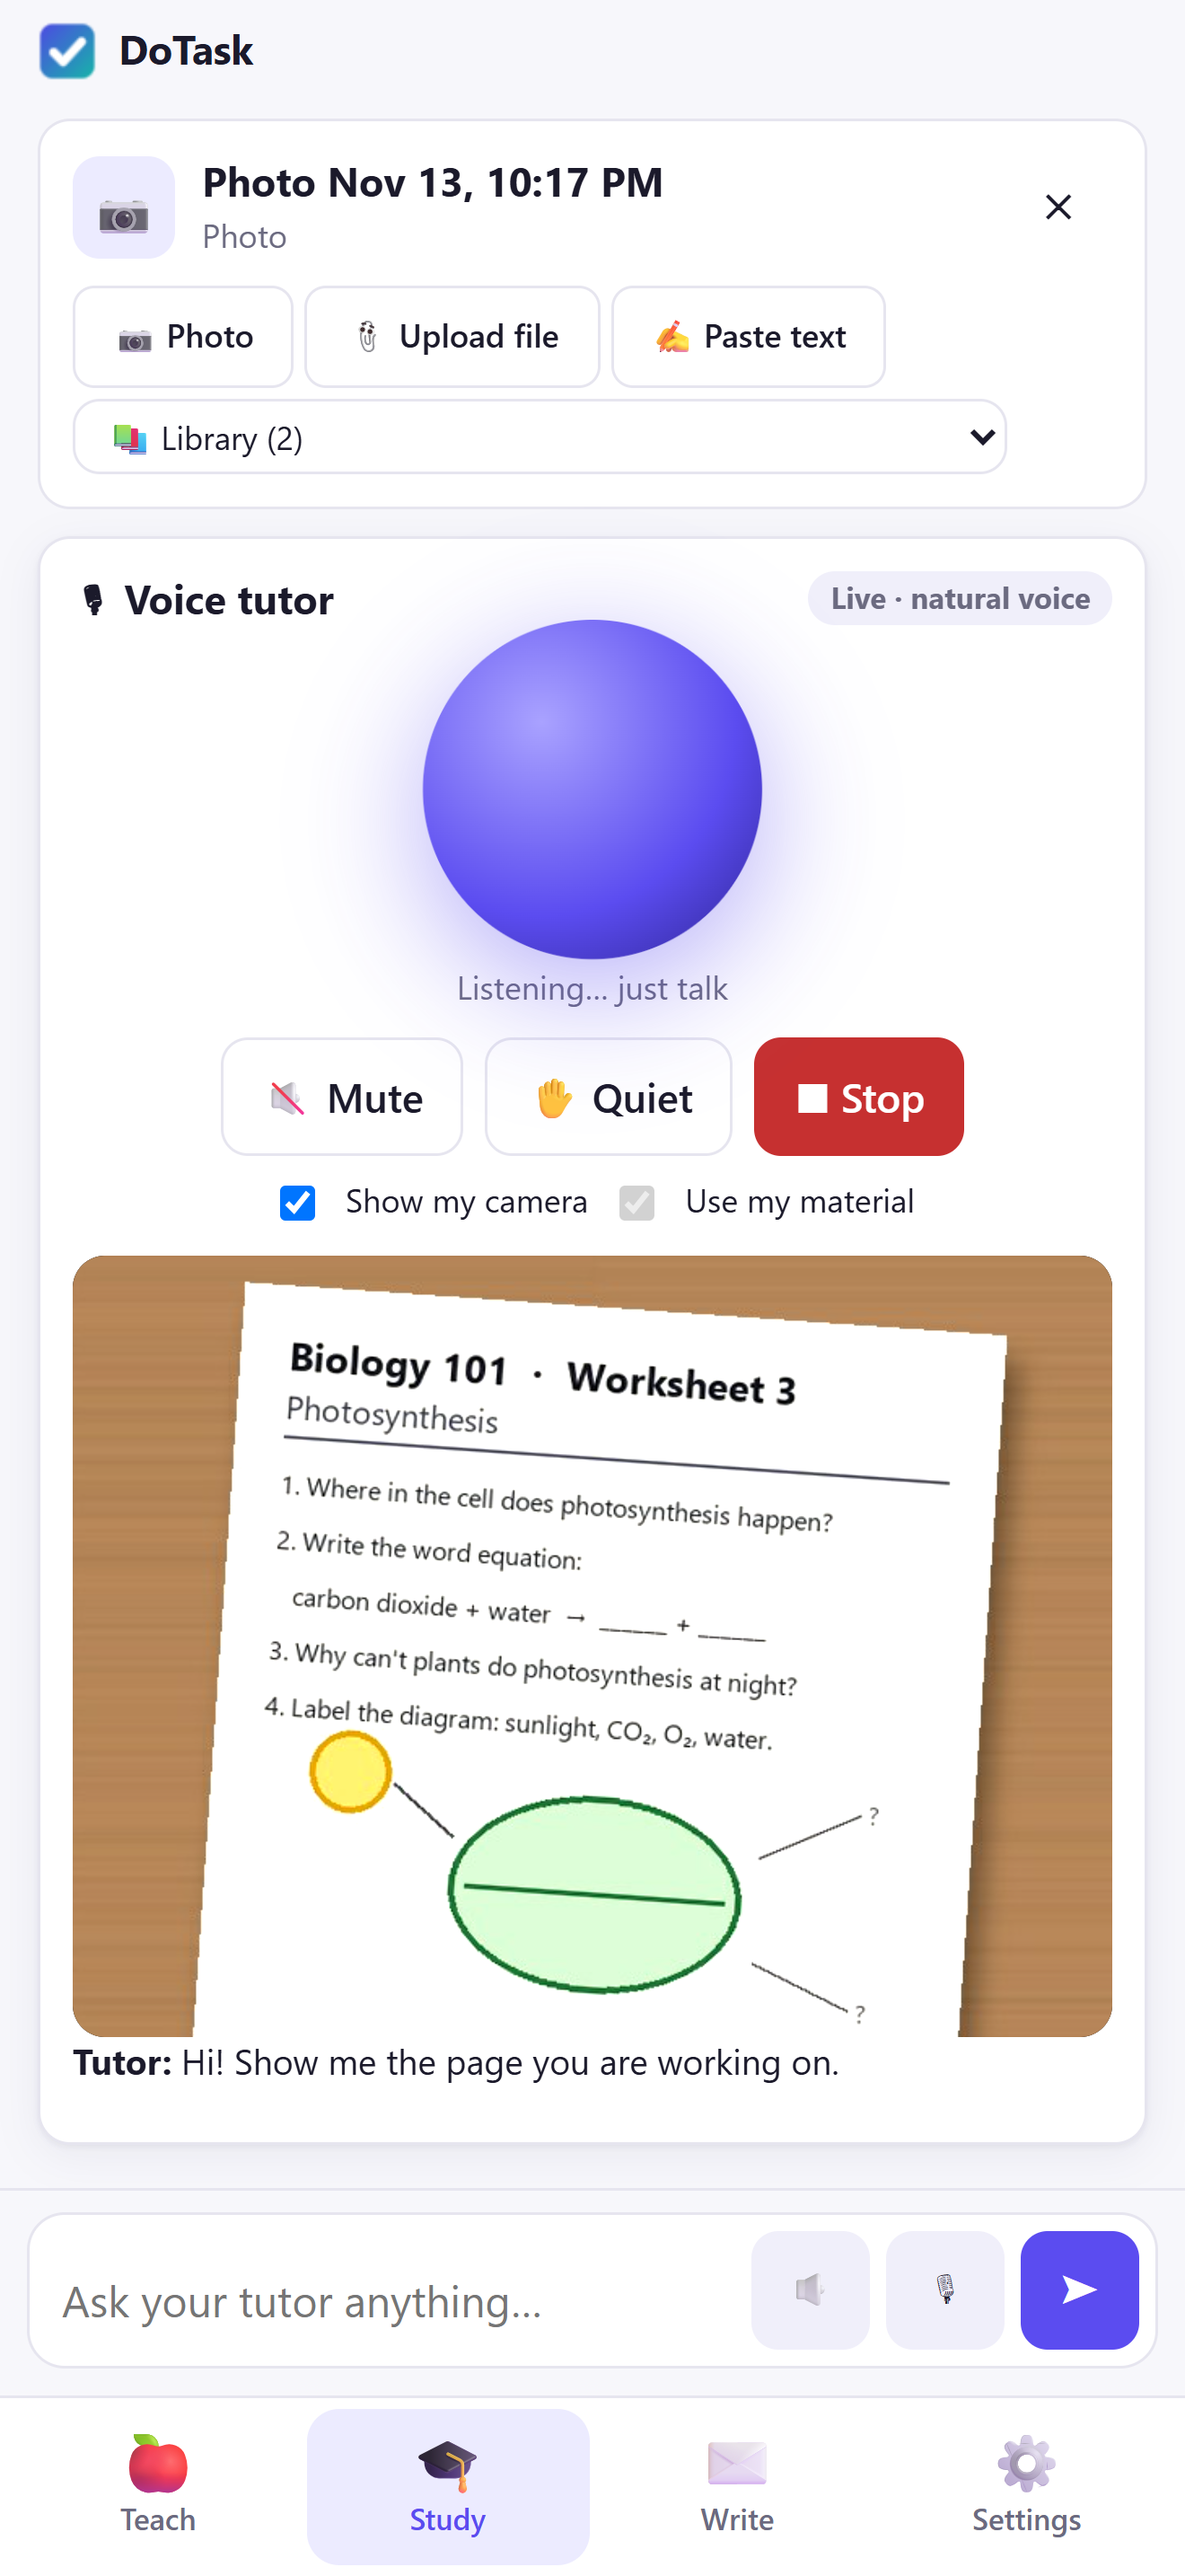
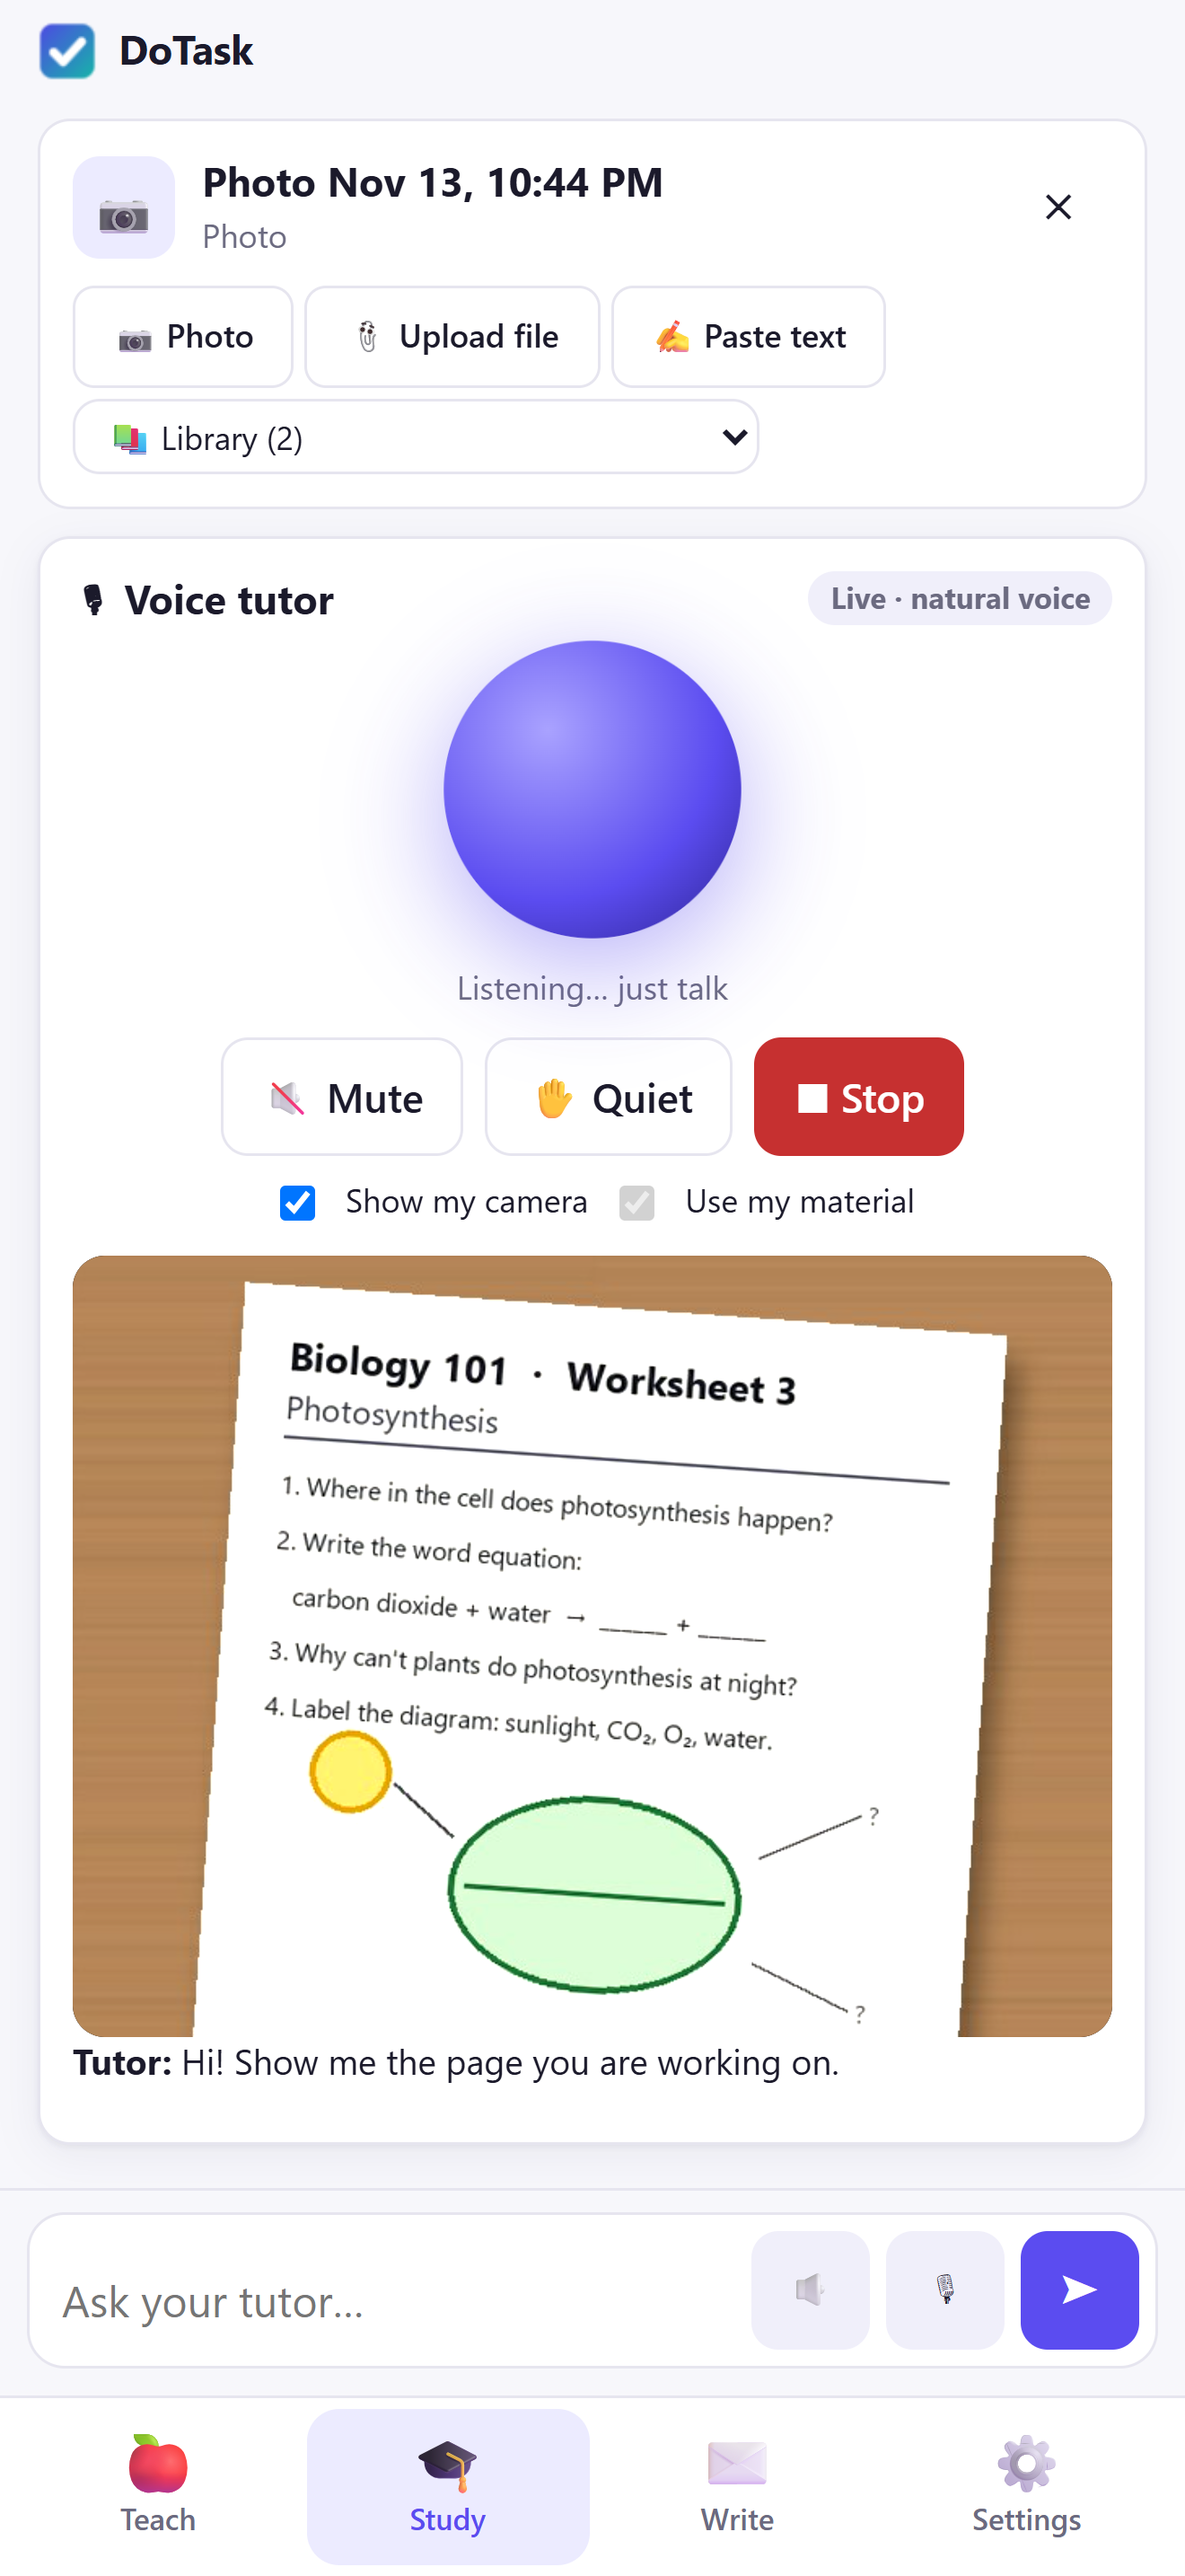
Reply drafts greet the student by name; tidier titles on small phones
- Comment replies: the AI writes {{NAME}} and the app fills in the
  student's first name on the device, so names still never reach the AI.
  Leftover "[Student Name]" placeholders are filled the same way. The real
  Gemini check caught a draft starting "Hi [Student Name],".
- shorten() for on-screen text (whole words, plain "…"); truncate() keeps
  its "[N more chars]" marker for AI prompts only. Pasted-text titles no
  longer show that marker.
- Phones: shorter composer hint so it does not wrap at 360 px.
- Store screenshots retaken.

diff --git a/extension/views/study.js b/extension/views/study.js
@@ -7,7 +7,7 @@ import { SentenceSpeaker, speak, stopSpeaking, BasicVoice, speechRecognitionAvai
 import { fileToAiPart } from '../lib/files.js'
 import * as tabs from '../lib/tabs.js'
 import { h, md, composer, toast, spinner, replace, promptDialog, openMicPermission, select } from '../lib/ui.js'
-import { truncate, isAbort, fmtDate, sleep, fnv1a } from '../lib/util.js'
+import { truncate, shorten, isAbort, fmtDate, sleep, fnv1a } from '../lib/util.js'
 import { getFolders, addFolder, unlockFolders, listFiles, readFile, filesSupported } from '../lib/localfiles.js'
 import { platform } from '../lib/platform.js'
 
@@ -34,7 +34,7 @@ export function mount(root, ctx) {
   const setupHolder = h('div')
   const scroller = h('div', { class: 'scroll' }, setupHolder, sourceBox, h('div', { style: { height: '10px' } }), voiceBox, h('div', { class: 'section-title' }, 'Study modes'), modes, log)
   const speakToggle = h('button', { class: 'icon-btn', title: 'Speak answers aloud', onclick: () => { st.speakAnswers = !st.speakAnswers; speakToggle.classList.toggle('primary', st.speakAnswers); if (!st.speakAnswers) stopSpeaking() } }, '🔈')
-  const box = composer({ placeholder: 'Ask your tutor anything…', onSubmit: (t) => ask(t), extra: [speakToggle] })
+  const box = composer({ placeholder: platform.phone ? 'Ask your tutor…' : 'Ask your tutor anything…', onSubmit: (t) => ask(t), extra: [speakToggle] })
   root.append(scroller, h('div', { class: 'composer-wrap' }, box.el))
   const fileInput = h('input', { type: 'file', class: 'hidden', accept: '.pdf,.docx,.pptx,.xlsx,.txt,.md,.csv,.html,.htm,image/*' })
   fileInput.addEventListener('change', () => { if (fileInput.files[0]) useFile(fileInput.files[0]); fileInput.value = '' })
@@ -76,7 +76,7 @@ export function mount(root, ctx) {
     st.doc = doc
     st.history = []
     renderSource()
-    note(`📚 Now studying **${doc.name}**. Pick a study mode or ask me anything.`)
+    note(`📚 Now studying **${shorten(doc.name, 80)}** — pick a study mode or ask me anything.`)
   }
 
   async function usePage() {
@@ -121,7 +121,7 @@ export function mount(root, ctx) {
     renderSource()
     note(same
       ? `I pressed **${r.label}**, but the page looks the same. It may need you to finish something on it first.`
-      : `➡ Pressed **${r.label}**. Now studying **${truncate(doc.name, 80)}**. Pick a study mode or ask me anything.`)
+      : `➡ Pressed **${r.label}**. Now studying **${shorten(doc.name, 80)}** — pick a study mode or ask me anything.`)
     return { moved: !same, pressed: r.label, title: doc.name, text: truncate(page.text || '', 6000) }
   }
 
@@ -182,7 +182,7 @@ export function mount(root, ctx) {
 
   async function usePaste() {
     const text = await promptDialog({ title: 'Paste what you want to study', placeholder: 'Notes, a chapter, an article…', multiline: true, ok: 'Study this' })
-    if (text && text.trim()) setDoc(await saveDoc({ name: truncate(text.trim().split('\n')[0], 50) || 'Pasted text', kind: 'text', text }))
+    if (text && text.trim()) setDoc(await saveDoc({ name: shorten(text.trim().split('\n')[0], 40) || 'Pasted text', kind: 'text', text }))
   }
 
   // ---------------- chat ----------------
@@ -440,7 +440,7 @@ export function mount(root, ctx) {
     onShow: async (p) => {
       replace(setupHolder, ctx.setupCard() || '')
       if (p?.usePage && platform.pages) usePage()
-      if (p?.explain) { setDoc(await saveDoc({ name: truncate(p.explain, 50), kind: 'text', text: p.explain })); ask('Explain this to me clearly, with an example.', 'Explain this') }
+      if (p?.explain) { setDoc(await saveDoc({ name: shorten(p.explain, 40), kind: 'text', text: p.explain })); ask('Explain this to me clearly, with an example.', 'Explain this') }
       if (p?.read) speak(p.read, { language: ctx.settings.language, rate: ctx.settings.speechRate })
     },
     onSettings: () => { replace(setupHolder, ctx.setupCard() || ''); if (!st.live && !st.basic) renderVoice() }

diff --git a/extension/views/teach.js b/extension/views/teach.js
@@ -7,7 +7,7 @@ import { db, draftsForAssignment, feedbackForStudent, getStudent, setStudentNote
 import { h, md, toast, spinner, avatar, select, empty, confirmDialog, replace, field } from '../lib/ui.js'
 import { saveSettings } from '../lib/settings.js'
 import { platform } from '../lib/platform.js'
-import { colorFor, fmtDate, htmlToText, isAbort, textToHtml, truncate, clampScore } from '../lib/util.js'
+import { colorFor, fmtDate, htmlToText, isAbort, textToHtml, truncate, shorten, clampScore } from '../lib/util.js'
 import { speak } from '../lib/speech.js'
 
 export function mount(root, ctx) {
@@ -362,7 +362,7 @@ export function mount(root, ctx) {
     const subCard = h('div', { class: 'card flat' },
       h('h4', null, 'Submission'),
       preview ? h('div', { class: 'preview' }, preview) : '',
-      sub.url ? h('p', { class: 'small' }, 'Link: ', h('a', { href: sub.url, target: '_blank' }, truncate(sub.url, 60))) : '',
+      sub.url ? h('p', { class: 'small' }, 'Link: ', h('a', { href: sub.url, target: '_blank' }, shorten(sub.url, 60))) : '',
       (sub.attachments || []).length ? h('div', { class: 'chips', style: { marginTop: '6px' } }, sub.attachments.map(f => h('a', { class: 'chip', href: f.url, target: '_blank' }, `📎 ${truncate(f.display_name, 40)}`))) : '',
       !preview && !sub.url && !(sub.attachments || []).length ? h('p', { class: 'small muted' }, sub.submission_type ? `Type: ${sub.submission_type}` : 'No submission yet.') : '',
       st.canvas.speedGraderUrl(st.course.id, a.id, sub.user_id) ? h('a', { class: 'small', href: st.canvas.speedGraderUrl(st.course.id, a.id, sub.user_id), target: '_blank' }, 'Open in SpeedGrader ↗') : '')
@@ -465,6 +465,7 @@ export function mount(root, ctx) {
         context: `Assignment: ${a.name}.${d?.comment ? `\nMy feedback on this submission: ${truncate(d.comment, 1500)}` : ''}`,
         sendLabel: `Send to ${first}`,
         intentPlaceholder: 'What do you want to tell them? (optional)',
+        recipientName: first, // filled in on the device; the AI only sees {{NAME}}
         onSend: async (text) => {
           const ok = await confirmDialog({ title: `Send this comment to ${nameOf(sub)}?`, body: truncate(text, 500), ok: `Send to ${first}` })
           if (!ok) return
@@ -659,7 +660,7 @@ export function mount(root, ctx) {
   }
 
   /** Reusable "draft with AI → edit → send" box. */
-  function replyEditor({ kind, original, context, sendLabel, onSend, intentPlaceholder }) {
+  function replyEditor({ kind, original, context, sendLabel, onSend, intentPlaceholder, recipientName }) {
     const intent = h('input', { class: 'input', placeholder: intentPlaceholder || 'What do you want to say? (optional — e.g. “yes, extend to Friday”)' })
     let tone = 'Warm'
     const out = h('textarea', { class: 'input', rows: 7, placeholder: 'Your reply…' })
@@ -674,7 +675,7 @@ export function mount(root, ctx) {
       draftBtn.disabled = true
       out.value = ''
       try {
-        await draftReply({ ai: ai(), settings: ctx.settings, kind, original, context, intent: intent.value, tone, onText: (_d, full) => { out.value = full } })
+        out.value = await draftReply({ ai: ai(), settings: ctx.settings, kind, original, context, intent: intent.value, tone, recipientName, onText: (_d, full) => { out.value = full } })
       } catch (e) { toast(e.message, 'error') }
       draftBtn.disabled = false
     } }, '✨ Draft')

diff --git a/extension/lib/compose.js b/extension/lib/compose.js
@@ -13,22 +13,36 @@ export function composeSystem(settings) {
 ${settings.teacherName ? `- If a sign-off fits, sign as "${settings.teacherName}".` : ''}`
 }
 
+// The AI writes this where the recipient's name goes; the app fills in the name on the device,
+// so a student's name never has to be sent to the AI.
+const NAME_TOKEN = '{{NAME}}'
+const NAME_PLACEHOLDER = /\[(?:the\s+)?(?:student|recipient|pupil)?(?:'s)?\s*(?:first\s+|full\s+)?name\]/gi
+
+/** Puts `name` where the draft has {{NAME}} or a "[Student Name]"-style placeholder. */
+export function fillName(text, name) {
+  if (!name) return text
+  return String(text).split(NAME_TOKEN).join(name).replace(NAME_PLACEHOLDER, name)
+}
+
 /**
  * @param {{ai, settings, kind?: string, original?: string, context?: string, intent?: string,
- *          tone?: string, language?: string, signal?: AbortSignal, onText?: Function}} o
+ *          tone?: string, language?: string, signal?: AbortSignal, onText?: Function,
+ *          recipientName?: string}} o  recipientName stays on the device (see NAME_TOKEN)
  */
 export async function draftReply(o) {
   const lines = []
   lines.push(`KIND: ${o.kind || 'reply'}`)
+  if (o.recipientName) lines.push(`THEIR NAME: write ${NAME_TOKEN} wherever you would use their first name, for example "Hi ${NAME_TOKEN},". I fill it in.`)
   if (o.context) lines.push(`CONTEXT (for you only):\n${truncate(o.context, 6000)}`)
   if (o.original) lines.push(`MESSAGE TO REPLY TO:\n"""\n${truncate(o.original, 12000)}\n"""`)
   lines.push(`WHAT I WANT TO SAY: ${o.intent || 'Write the best helpful reply.'}`)
   lines.push(`TONE: ${o.tone || 'Warm'}   LANGUAGE: ${o.language || o.settings.language || 'English'}`)
   const r = await o.ai.generate({
     tier: 'smart', system: composeSystem(o.settings), prompt: lines.join('\n\n'),
-    temperature: 0.6, maxTokens: 1500, signal: o.signal, onText: o.onText
+    temperature: 0.6, maxTokens: 1500, signal: o.signal,
+    onText: o.onText && ((delta, full) => o.onText(delta, fillName(full, o.recipientName)))
   })
-  return r.text.trim()
+  return fillName(r.text.trim(), o.recipientName)
 }
 
 export async function improveText({ ai, settings, text, how, signal, onText }) {

diff --git a/extension/views/do.js b/extension/views/do.js
@@ -6,7 +6,7 @@ import { saveSettings } from '../lib/settings.js'
 import * as tabs from '../lib/tabs.js'
 import { h, md, composer, toast, spinner } from '../lib/ui.js'
 import { speak, stopSpeaking } from '../lib/speech.js'
-import { isAbort, truncate } from '../lib/util.js'
+import { isAbort, shorten } from '../lib/util.js'
 import { unlockFolders, getFolders } from '../lib/localfiles.js'
 
 const MODES = [
@@ -212,7 +212,7 @@ export function mount(root, ctx) {
     const m = aiMsg(`🔊 Reading **${page.title || 'this page'}**… (press Stop to stop)`)
     stopBtn.classList.remove('hidden')
     const sp = speak(page.text, { language: ctx.settings.language, rate: ctx.settings.speechRate })
-    sp.onEnd = () => { if (!run) stopBtn.classList.add('hidden'); m.set(`Finished reading **${truncate(page.title, 60)}**.`) }
+    sp.onEnd = () => { if (!run) stopBtn.classList.add('hidden'); m.set(`Finished reading **${shorten(page.title, 60)}**.`) }
   }
 
   renderModes()

diff --git a/extension/lib/util.js b/extension/lib/util.js
@@ -91,6 +91,15 @@ export function truncate(s, n) {
   return s.length > n ? s.slice(0, n) + `… [${s.length - n} more chars]` : s
 }
 
+/** Short text for the screen: cut at a word boundary with "…". (truncate() is for AI prompts.) */
+export function shorten(s, n) {
+  s = String(s ?? '').replace(/\s+/g, ' ').trim()
+  if (s.length <= n) return s
+  const cut = s.slice(0, n)
+  const space = cut.lastIndexOf(' ')
+  return (space > n * 0.6 ? cut.slice(0, space) : cut).replace(/[\s,.;:!?–—-]+$/, '') + '…'
+}
+
 export function fnv1a(str) {
   let h = 0x811c9dc5
   for (let i = 0; i < str.length; i++) {
